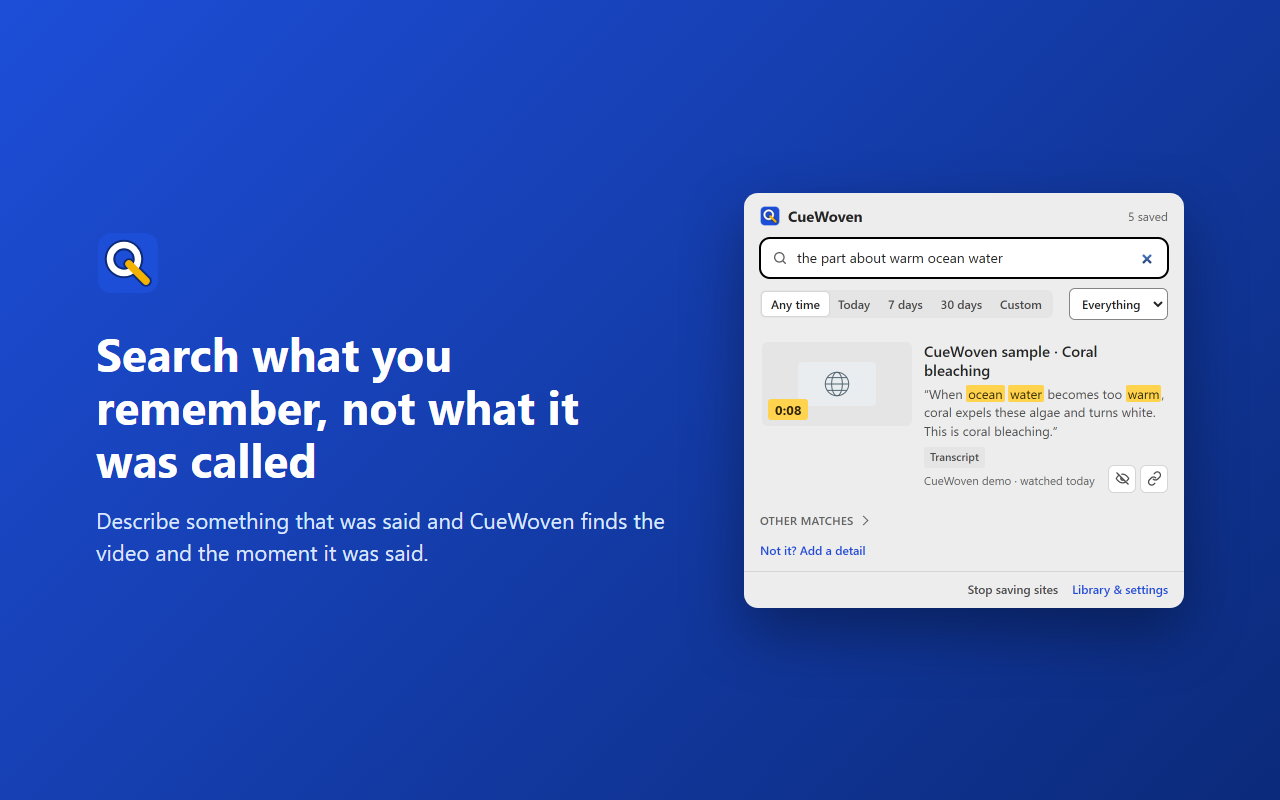
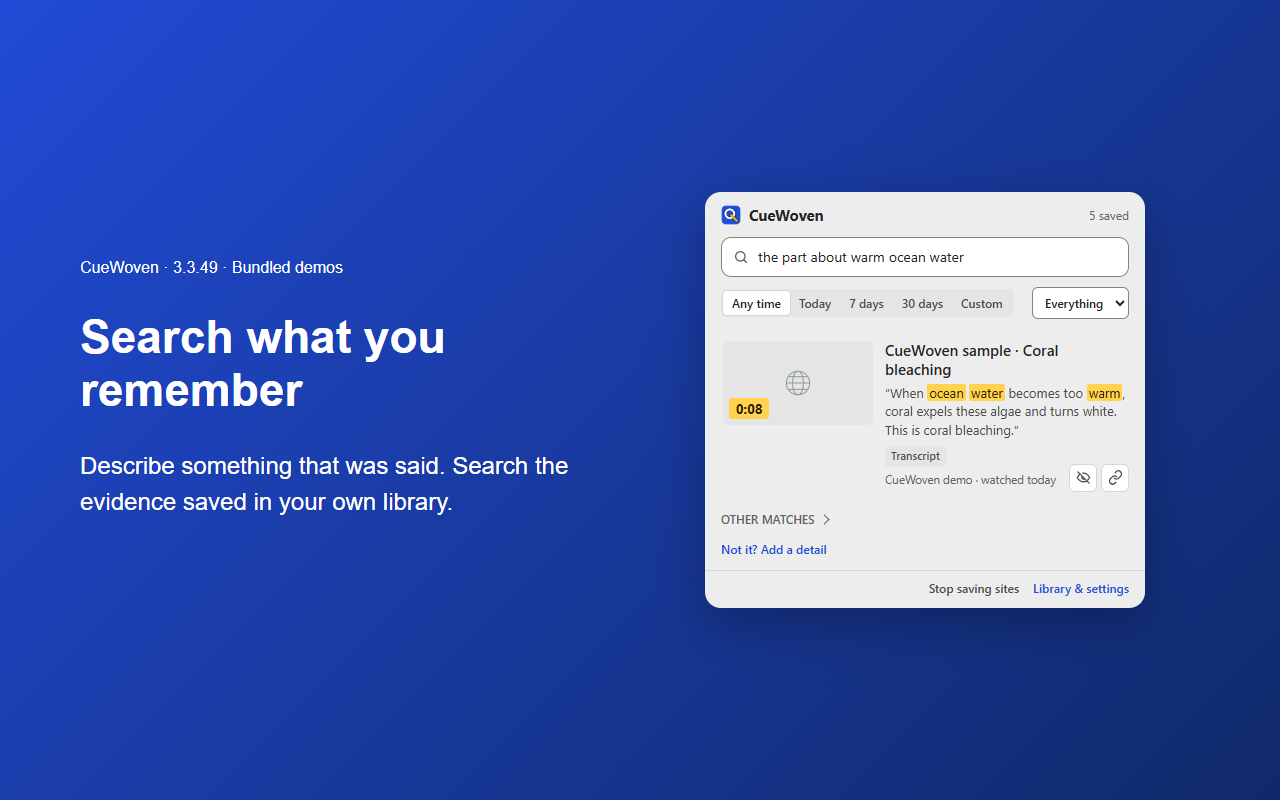
Release CueWoven 3.3.49 beta: bound text-worker restarts

Changed region(s): [[0.0625, 0.2188, 0.9375, 0.7812], [0.0625, 0.2812, 0.2812, 0.375]]

diff --git a/offscreen/text-model.js b/offscreen/text-model.js
@@ -1,7 +1,7 @@
 // Queries pass background work at each four-text inference boundary.
-export function createTextModel(onState=()=>{},{WorkerClass=globalThis.Worker,idleMs=60000,timeoutMs=180000}={}){
+export function createTextModel(onState=()=>{},{WorkerClass=globalThis.Worker,idleMs=60000,timeoutMs=180000,restartWindowMs=60000}={}){
   let worker=null,running=null,nextId=0,idle,deadline,scheduled=false;
-  const queries=[],background=[];
+  const queries=[],background=[],starts=[];
   function release(error=new Error('Text processing stopped.')){
     clearTimeout(idle);clearTimeout(deadline);worker?.terminate();worker=null;
     running?.job.reject(error);running=null;
@@ -16,6 +16,11 @@ export function createTextModel(onState=()=>{},{WorkerClass=globalThis.Worker,id
     clearTimeout(idle);
     try{
       if(!worker){
+        const now=Date.now();
+        while(starts.length&&now-starts[0]>=restartWindowMs)starts.shift();
+        // Edge can retain terminated workers' WASM memory; bound rapid restarts.
+        if(starts.length>=2)throw new Error(`The search engine restarted repeatedly. Try again in ${Math.max(1,Math.ceil((restartWindowMs-now+starts[0])/1000))} seconds.`);
+        starts.push(now);
         onState({status:'loading',progress:0});
         worker=new WorkerClass(new URL('text-worker.js',import.meta.url),{type:'module'});
         const current=worker;

diff --git a/docs/STORE-LISTING.md b/docs/STORE-LISTING.md
@@ -28,7 +28,9 @@ Copy these answers into each dashboard. Upload `cuewoven-store-v<version>.zip` f
 > • Something you saw: "a red car on a mountain road"
 > • Text that was on screen, a channel or site name, or when you saw it: "3 days ago", "last week", "in September"
 >
-> Results open at the matching moment in the video or the matching passage on the page.
+> When saved evidence supports a location, results open at a matching video moment or article passage. Otherwise, they open the video or page. Related passages are identified as suggestions.
+>
+> Video snapshots and article images require opt-in and can use substantial memory. Lite mode starts enabled on devices reporting 8 GB of RAM or less and pauses new speech, image and on-screen-text capture. Captions and page text remain available.
 >
 > Private by design
 > • Everything is saved and searched on your computer with local AI models. There is no account, no server and no tracking.
@@ -49,6 +51,7 @@ Copy these answers into each dashboard. Upload `cuewoven-store-v<version>.zip` f
 | Permission | Justification |
 |---|---|
 | storage | Saves the user's settings and site choices. |
+| system.memory | Reads physical RAM locally once during initial Lite mode setup so devices with 8 GB or less start with lighter capture settings. The capacity is not retained or transmitted. |
 | unlimitedStorage | The searchable library (transcripts, page text, image embeddings) is kept locally and can exceed the default quota; the user sets the image storage size and retention. |
 | offscreen | Runs the local AI search models (text, speech and image) in an offscreen document so search works without sending data anywhere. |
 | alarms | Removes items older than the user's chosen retention period on a schedule. |
@@ -78,7 +81,7 @@ Leave all others unchecked. Note in any free-text field that this data is stored
 
 ## Microsoft Edge Add-ons (Partner Center)
 
-- Use the same ZIP, description, privacy policy URL, category and images.
+- Use the same ZIP, category and images. Use Edge-specific wording in the description and privacy policy; Microsoft requires the policy to primarily refer to Microsoft Edge. Do not copy Chrome dashboard labels into the Edge listing.
 - **Search terms** (up to 7): video search, history search, transcript search, YouTube history, local AI, memory, find video
 - **Notes for certification:** paste the reviewer notes above.
 - Edge requires the description to be at least 250 characters; the detailed description above qualifies.
@@ -95,3 +98,12 @@ Leave all others unchecked. Note in any free-text field that this data is stored
 | icons/icon128.png | 128×128 | Store icon (both stores; Edge accepts 128 or larger) |
 
 Before submitting, recapture the screenshots if the UI has changed since the version they show.
+
+## Submission gates
+
+The ZIP passing local tests does not certify store approval. Review the current store policies and finish the actual dashboard disclosures before submitting. Keep this list separate from runtime test results:
+
+- Check the live privacy-policy URL and ensure the dashboard disclosures agree with it, including local browsing-content handling and ordinary requests to model/content hosts.
+- Review the current screenshots and use only the refreshed images for this version. Demo records are bundled sample content, not a real user's history.
+- Explain that JavaScript, WebAssembly and OCR resources are bundled; first-use downloads supply model assets. Reviewers decide whether the submitted implementation satisfies remote-code policy.
+- Complete a second-device check and investigate the previously observed intermittent Edge native crashes before a broad public launch. Passing regression tests do not resolve those failures.

diff --git a/docs/UPDATE-3.3.49.md b/docs/UPDATE-3.3.49.md
@@ -1,0 +1,11 @@
+# CueWoven 3.3.49 beta
+
+The text engine now limits repeated worker starts to two per minute. A healthy worker keeps serving searches without a delay. If the engine repeatedly stops, it permits one immediate replacement and then reports how long to wait before retrying, instead of repeatedly allocating model workers. Normal unloading after a minute of inactivity is unchanged.
+
+Bounded Edge tests reproduced substantial memory growth from rapid model-worker retirement, including when starts were spaced 1.5 seconds apart. A real-time test of the production restart limit blocked 20 rapid retries without creating more workers, then resumed inference after the window expired with an identical vector. This safeguards restart behavior; it is not a browser RAM cap or a verified fix for the two previously observed native V8 crashes.
+
+Store submission guidance now explains system-memory permission, Lite defaults, opt-in visual capture and conditional timestamp/passage navigation. Screenshots use the current UI with bundled demo content. Model weights, precision, ranking, saved data formats, dependencies and permissions are unchanged.
+
+Validation: 387 unit tests and all 15 maintained isolated Edge browser programs pass. The worker regression covers cooldown boundaries, healthy reuse, queued rejection, stale events and recovery; removing the restart guard fails its regression. Release packaging is separately checked for complete runtime files and tested with real first-use model download, offline search and backup/restore.
+
+Limits: the original two native Edge/V8 failures remain unexplained. Repeated worker failures can require waiting up to a minute and trying again; native renderer loss may still require reloading. Second-computer testing and store certification remain separate. Only the installation ZIP is published; the store upload ZIP stays local.

diff --git a/docs/USAGE.md b/docs/USAGE.md
@@ -24,6 +24,8 @@ Queries containing only punctuation or common English filler words (such as `...
 
 Opening the popup prepares text search without preloading visual search. Visual models load when capture or an actual visual search needs them. The text worker unloads after a minute without work; downloaded model files stay cached on disk. This reduces idle memory at the cost of a short reload after a break. Initial downloads and slower devices can take longer. [Resource behavior and measured limits](PERF.md#current-model-residency).
 
+If the text engine repeatedly stops, CueWoven allows one immediate replacement, then limits new workers to two starts per minute to prevent rapid restarts from accumulating memory. Further attempts show a retry countdown; try again after that interval. Healthy searches keep reusing their worker without this wait. This safeguard does not guarantee recovery from a native browser-process crash.
+
 For article results, a literal phrase found in the saved passage becomes the highlighted jump target, even when it occurs later in that passage. Surrounding saved words help distinguish repeated phrases. Similar-meaning results scroll near the saved passage without highlighting its words and show **Suggested section · Similar in meaning**. The label disappears on click, typing, keyboard navigation, touch or scrolling; interacting before a late-rendered passage appears also cancels the pending jump. If an exact target has disappeared or cannot be distinguished on the current page, CueWoven reports that it could not find the saved passage. Generated image captions open the page without claiming an on-page text location.
 
 ## Choose what gets saved
